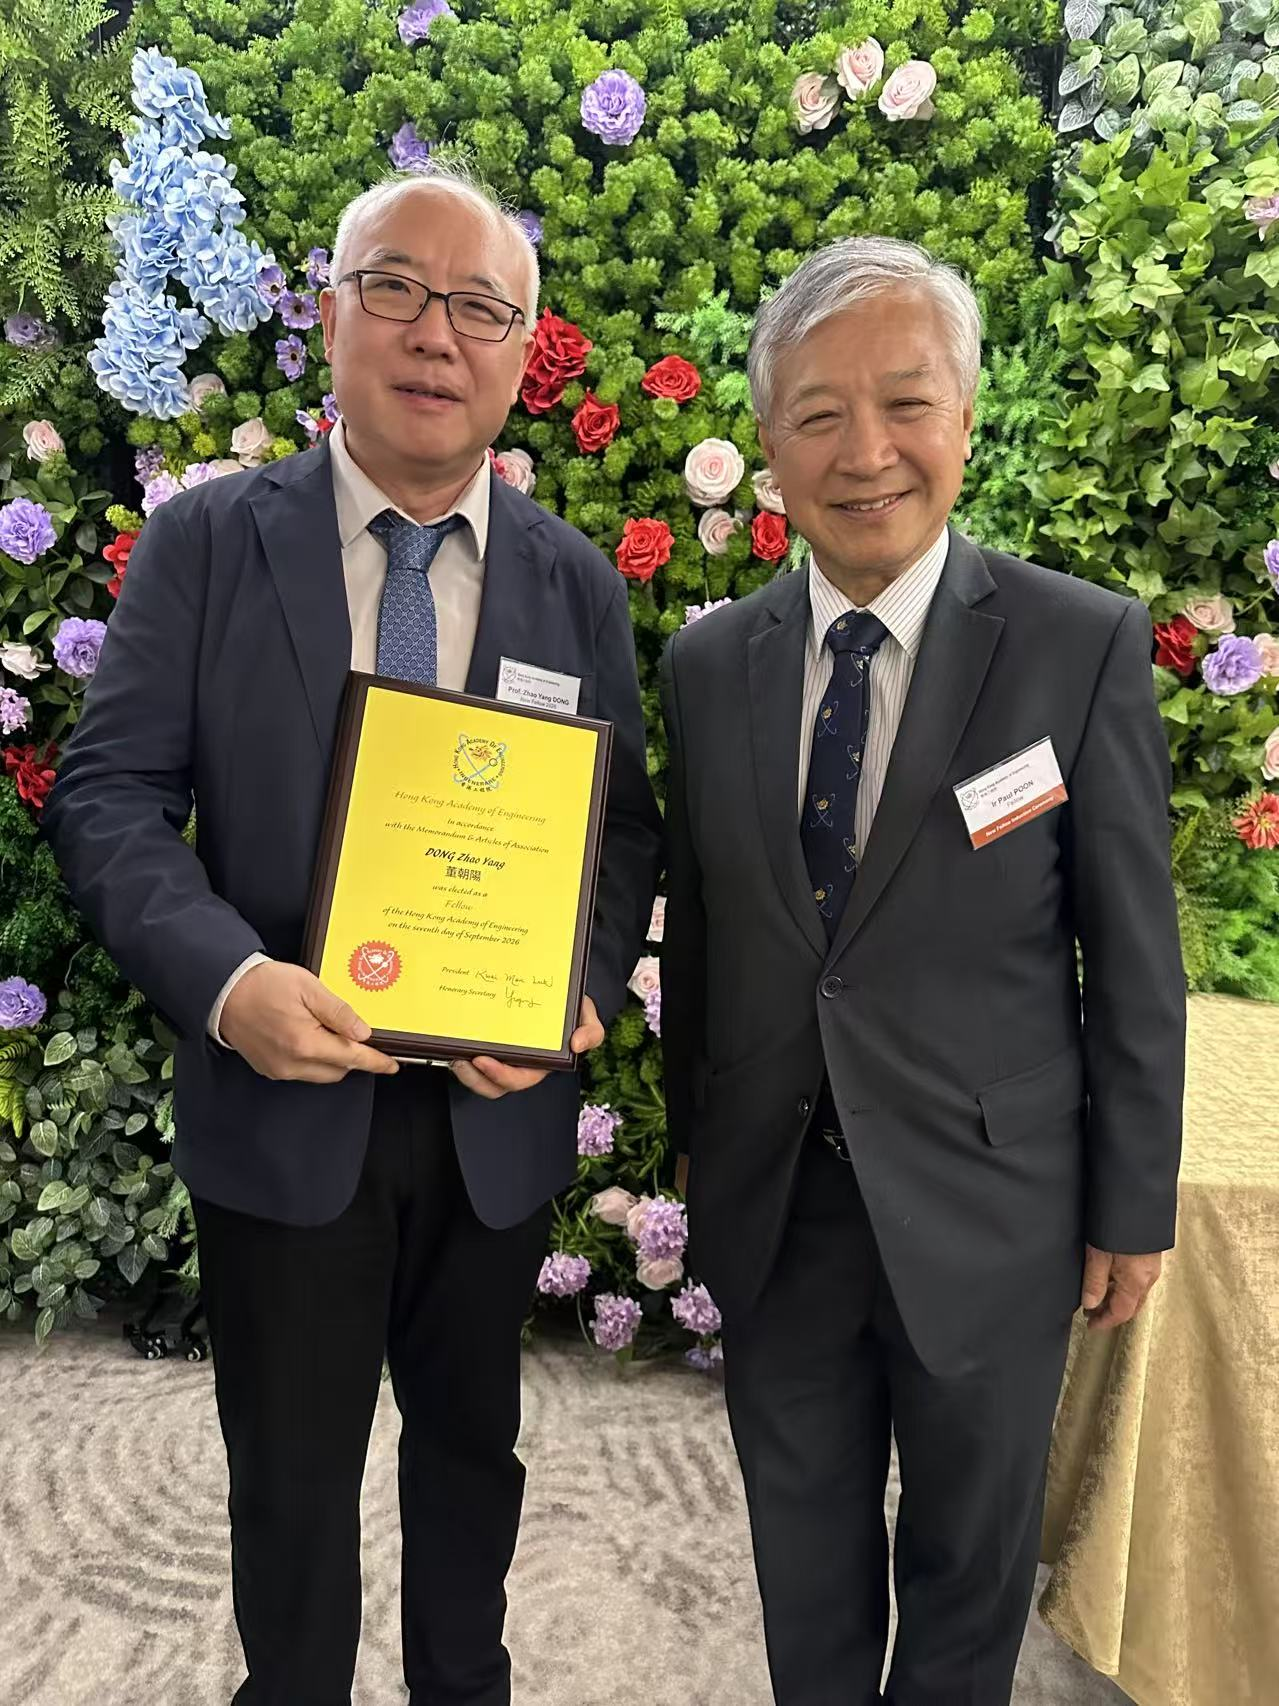
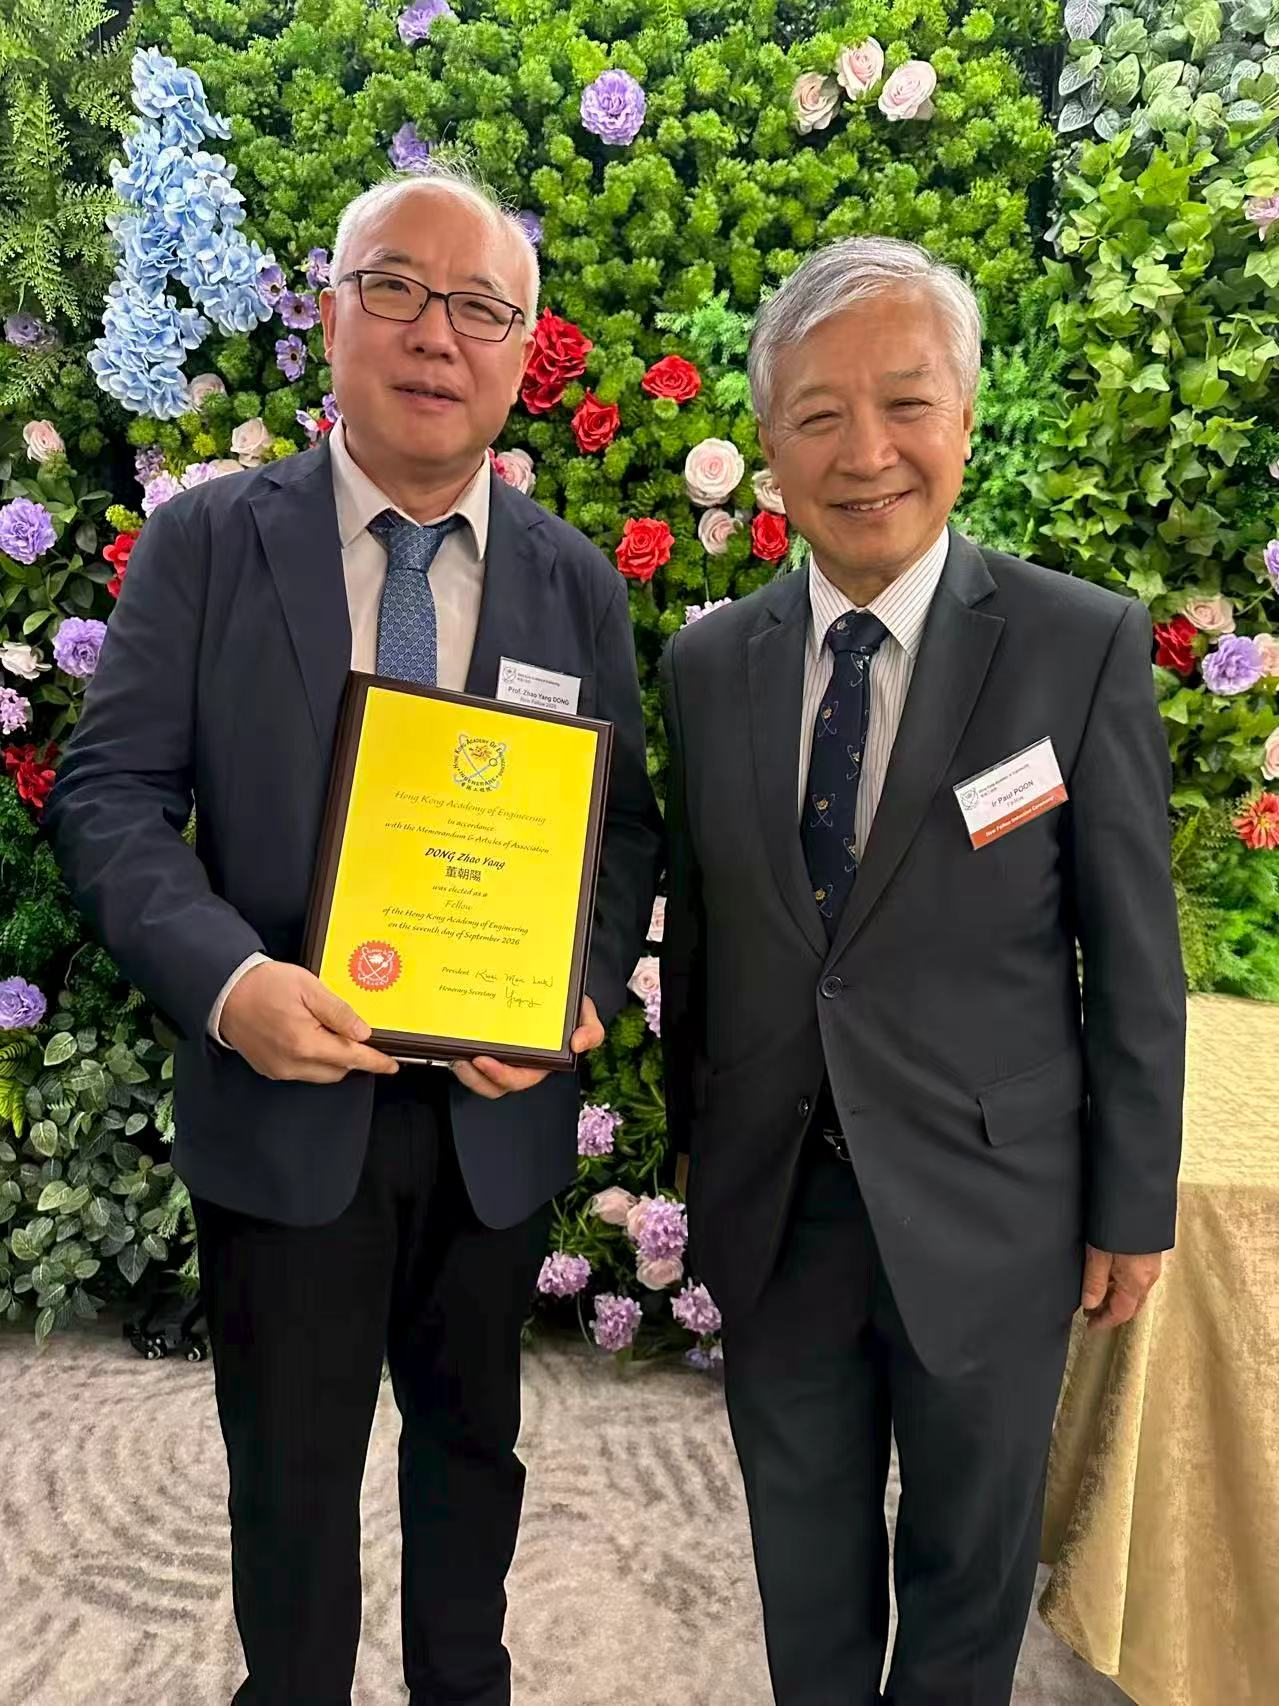
Space the three HKAE fellowship photos on desktop and mobile

diff --git a/script.js b/script.js
@@ -465,22 +465,23 @@ function renderPublications(publications, container) {
 }
 
 // Function to generate gallery HTML
-function generateGalleryHTML(images) {
+function generateGalleryHTML(images, layout) {
     if (!images || images.length === 0) return '';
 
     const imageWidth = 280; // Fixed image width in pixels
     const totalWidth = images.length * imageWidth;
     const gaps = images.length - 1; // Number of gaps between images
 
-    let galleryHtml = '<div class="news-gallery">';
+    const spaced = layout === 'spaced';
+    let galleryHtml = `<div class="news-gallery${spaced ? ' news-gallery--spaced' : ''}">`;
 
     images.forEach((imgSrc, index) => {
         // Calculate z-index: first image has highest z-index, last image has lowest
         // z-index decreases from images.length (first) to 1 (last)
         const zIndex = images.length - index;
 
-        // First image doesn't need margin-left
-        if (index === 0) {
+        // Only the default gallery overlaps its later thumbnails.
+        if (spaced || index === 0) {
             galleryHtml += `
                 <a href="${imgSrc}" aria-haspopup="dialog" class="news-gallery-item" style="z-index: ${zIndex};">
                     <img src="${imgSrc}" alt="News Photo" class="news-gallery-img">
@@ -607,7 +608,7 @@ function renderNewsItems(newsData, containerId, limit = 8) {
         // Append Gallery if images exist
         if (newsItem.images && newsItem.images.length > 0) {
             const galleryContainer = document.createElement('div');
-            galleryContainer.innerHTML = generateGalleryHTML(newsItem.images);
+            galleryContainer.innerHTML = generateGalleryHTML(newsItem.images, newsItem.galleryLayout);
             contentElement.appendChild(galleryContainer);
         }
 

diff --git a/tests/news-viewer.test.js b/tests/news-viewer.test.js
@@ -17,3 +17,16 @@ test('news viewer controls have both Chinese translations', () => {
     assert.equal(translate('Close photo', 'zh-Hans'), '关闭照片');
     assert.equal(translate('Close photo', 'zh-Hant'), '關閉照片');
 });
+
+test('the fellowship news links the three original photos in order without stacking them', () => {
+    const news = require('../data/news.json');
+    const story = news.find(item => item.title.includes('Fellow of the Hong Kong Academy of Engineering'));
+    const paths = ['presentation', 'certificate', 'signing'].map(name => '/assets/news/2026-11-hkae-dong-' + name + '.jpg');
+    assert.deepEqual(story.images, paths);
+    const page = {document: {addEventListener() {}}};
+    vm.runInNewContext(fs.readFileSync(require.resolve('../script.js'), 'utf8'), page);
+    const gallery = page.generateGalleryHTML(story.images, story.galleryLayout);
+    assert.doesNotMatch(gallery, /--gallery-overlap/);
+    assert.deepEqual(Array.from(gallery.matchAll(/<a href="([^"]+)"/g), m => m[1]), paths);
+    assert.match(page.generateGalleryHTML(paths), /--gallery-overlap/, 'default gallery keeps its desktop layout');
+});

diff --git a/styles.css b/styles.css
@@ -776,6 +776,18 @@ nav.scrolled {
     object-fit: cover;
 }
 
+/* Opt-in layout for stories whose photos should be shown in full, side by side. */
+.news-gallery--spaced {
+    display: grid;
+    grid-template-columns: repeat(3, minmax(0, 1fr));
+    align-items: start;
+    gap: clamp(24px, 2.5vw, 32px);
+}
+
+.news-gallery--spaced .news-gallery-item { min-width: 0; max-width: none; }
+.news-gallery--spaced .news-gallery-item:hover { transform: none; }
+.news-gallery--spaced .news-gallery-img { width: 100%; }
+
 .news-photo-viewer {
     box-sizing: border-box;
     position: fixed;
@@ -1009,6 +1021,10 @@ html:has(.news-photo-viewer[open]) { overflow: hidden; }
         grid-template-columns: repeat(2, minmax(0, 1fr));
         gap: 0.75rem;
         align-items: start;
+    }
+    .news-gallery--spaced {
+        grid-template-columns: minmax(0, 1fr);
+        gap: 20px;
     }
     .news-gallery-item { margin-left: 0; min-width: 0; max-width: none; }
     .news-gallery-item:only-child { grid-column: 1 / -1; }
